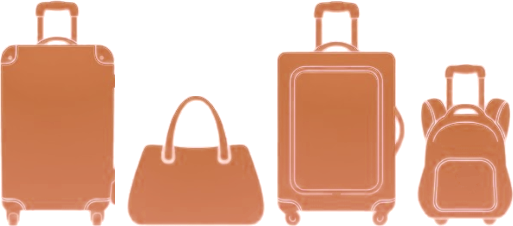
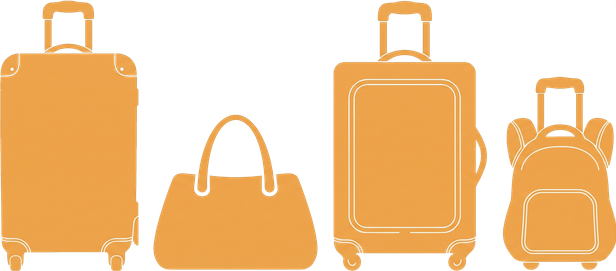
fix(divisores): sustituye las imagenes de maletas y Quienes Somos
Las dos venian con FONDO BLANCO, no negro como las versiones anteriores, y eso
cambia el metodo de recorte: el blanco tambien forma parte del dibujo. En maletas
son los contornos, las cremalleras y el interior del bolso; en Quienes Somos, el
hueco del aro, que esta cerrado por el metal y no toca el borde. Un recorte por
umbral habria agujereado los primeros y dejado tapado el segundo.

Se resuelve con relleno desde los bordes mas deteccion de huecos por erosion: lo
blanco fino (lineas del dibujo) sobrevive, lo blanco grueso (fondo exterior y
huecos cerrados) se va. Y con des-premultiplicado contra blanco, que es lo que
evita la orla clara en el borde.

Contrastado contra la version anterior de maletas, que es la referencia: 43,9% de
transparencia frente a 44,5%, y cero blanco opaco en ambas. El metodo coincide con
la intencion del asset original.

Peso: maletas de 4,9MB a 58KB, Quienes Somos de 5,9MB a 72KB.

Los aspectos nativos cambiaron y hubo que actualizar las constantes que los fijan
a mano, o el icono sale deformado. En Quienes Somos de 374/448 a 405/448, con lo
que el ancho pasa de 37 a 40px; es la tercera vez que esa constante se queda
desfasada al cambiar la imagen, asi que queda anotado en el propio codigo que hay
que tocarla siempre. En maletas la constante seguia declarando 513/226, el aspecto
de un archivo que ya no existe: el ancho redondeado salia igual (100px) y por eso
no se notaba, pero describia algo inexistente.
[…]

diff --git a/components/sobre-silvana/QSomosDivider.tsx b/components/sobre-silvana/QSomosDivider.tsx
@@ -3,19 +3,26 @@
 import { useRef } from "react";
 import Image from "next/image";
 import { useReducedMotion } from "motion/react";
-import { useFlightWithWake, DIVIDER_MARGEN_LATERAL, DIVIDER_WOBBLE_AMPLITUDE } from "@/lib/gsap/useFlightWithWake";
+import { useFlightWithWake, apoyoEnFrontera, DIVIDER_MARGEN_LATERAL, DIVIDER_WOBBLE_AMPLITUDE } from "@/lib/gsap/useFlightWithWake";
 
 // Separador de la sección Quiénes Somos (/sobre-silvana) — mismo motor de
 // animación que components/ui/AnimatedDivider.tsx
 // (lib/gsap/useFlightWithWake.ts), con el medallón
-// (public/images/q-somos-divider-v2.png) en vez del avión. Fuente: imagen real
-// del usuario, fondo negro sólido removido (alpha real) — a pedido explícito
-// del usuario esta vez se mantiene el color de cobre/tierra tal cual salió
-// de la foto, sin recolorear al dorado del resto de los separadores.
+// (public/images/q-somos-divider-v3.png) en vez del avión. Fuente: imagen real
+// del usuario (aldaba_texto.png), fondo BLANCO removido con alfa real — ojo, las
+// versiones anteriores venían sobre negro y el método es distinto: acá el blanco
+// también aparece DENTRO del hueco del aro, así que se recorta por relleno desde
+// los bordes más detección de huecos, no por umbral.
+//
+// Se mantiene el color dorado tal cual salió de la foto, sin recolorear al ámbar
+// del theme — mismo criterio que la brújula de Ciudades.
 // `gira: false`: se traslada sin rotar, mantiene su orientación fija.
 //
 const ICON_HEIGHT = 44;
-const ICON_WIDTH = Math.round((ICON_HEIGHT * 519) / 512); // aspecto nativo de q-somos-divider-v2.png
+// Aspecto nativo de q-somos-divider-v3.png. Esta constante hay que actualizarla
+// SIEMPRE que se sustituya el archivo, o el ícono sale deformado: ya pasó dos
+// veces (519/512 → 374/448 → 405/448).
+const ICON_WIDTH = Math.round((ICON_HEIGHT * 405) / 448);
 // Alto mínimo del contenedor sin recortar el ícono en los extremos del wobble
 // vertical (pedido explícito: la sección no debe dejar espacio sobrante).
 const CONTAINER_HEIGHT = ICON_HEIGHT + 2 * DIVIDER_WOBBLE_AMPLITUDE;
@@ -41,7 +48,12 @@ export function QSomosDivider({ direction = "ltr" }: QSomosDividerProps) {
   });
 
   return (
-    <div aria-hidden="true" style={{ paddingLeft: DIVIDER_MARGEN_LATERAL, paddingRight: DIVIDER_MARGEN_LATERAL }}>
+    <div
+      aria-hidden="true"
+      // apoyoEnFrontera: sube el divisor media caja para que la estela quede
+      // clavada sobre la frontera hero/cuerpo. Ver lib/gsap/useFlightWithWake.ts.
+      style={{ ...apoyoEnFrontera(ICON_HEIGHT), paddingLeft: DIVIDER_MARGEN_LATERAL, paddingRight: DIVIDER_MARGEN_LATERAL }}
+    >
       <style>{`
         .qsd-estela {
           background-image: repeating-linear-gradient(to right, var(--dz-accent) 0 3px, transparent 3px 8px);
@@ -56,7 +68,7 @@ export function QSomosDivider({ direction = "ltr" }: QSomosDividerProps) {
       >
         {prefersReducedMotion ? (
           <div className="absolute top-1/2 left-1/2" style={{ transform: "translate(-50%, -50%)" }}>
-            <Image src="/images/q-somos-divider-v2.png" alt="" width={ICON_WIDTH} height={ICON_HEIGHT} />
+            <Image src="/images/q-somos-divider-v3.png" alt="" width={ICON_WIDTH} height={ICON_HEIGHT} />
           </div>
         ) : (
           <>
@@ -67,7 +79,7 @@ export function QSomosDivider({ direction = "ltr" }: QSomosDividerProps) {
               style={{ left: 0, top: "calc(50% - 1.133px)", height: "2.266px", width: 0 }}
             />
             <div ref={iconRef} className="absolute" style={{ left: 0, top: `calc(50% - ${ICON_HEIGHT / 2}px)` }}>
-              <Image src="/images/q-somos-divider-v2.png" alt="" width={ICON_WIDTH} height={ICON_HEIGHT} />
+              <Image src="/images/q-somos-divider-v3.png" alt="" width={ICON_WIDTH} height={ICON_HEIGHT} />
             </div>
           </>
         )}

diff --git a/components/ui/MaletasDivider.tsx b/components/ui/MaletasDivider.tsx
@@ -25,7 +25,11 @@ import { useFlightWithWake, DIVIDER_MARGEN_LATERAL, DIVIDER_WOBBLE_AMPLITUDE } f
 // contra los otros divisores cae del 42% al ~18%.
 
 const ICON_HEIGHT = 44;
-const ICON_WIDTH = Math.round((ICON_HEIGHT * 513) / 226); // aspecto nativo de maletas-divider-v6.png
+// Aspecto nativo de maletas-divider-v6.png. Era 513/226 con la imagen anterior;
+// la sustitución de 2026-08-03 dejó el archivo en 616x271. El ancho redondeado
+// sale igual (100px) en los dos casos, pero se actualiza para que la constante
+// siga describiendo el archivo real y no uno que ya no existe.
+const ICON_WIDTH = Math.round((ICON_HEIGHT * 616) / 271);
 // Alto mínimo del contenedor sin recortar el ícono en los extremos del wobble
 // vertical (pedido explícito: la sección no debe dejar espacio sobrante).
 const CONTAINER_HEIGHT = ICON_HEIGHT + 2 * DIVIDER_WOBBLE_AMPLITUDE;

diff --git a/components/ui/FondoAnimado.tsx b/components/ui/FondoAnimado.tsx
@@ -52,7 +52,7 @@ const ICONOS = {
   },
   brujula: { src: "/images/brujula-divider-v3.png", alto: 46, ratio: 510 / 512, rota: false, rotBase: 0 },
   gente: { src: "/images/gente-divider-v2.png", alto: 44, ratio: 633 / 512, rota: false, rotBase: 0 },
-  qsomos: { src: "/images/q-somos-divider-v2.png", alto: 44, ratio: 519 / 512, rota: false, rotBase: 0 },
+  qsomos: { src: "/images/q-somos-divider-v3.png", alto: 44, ratio: 405 / 448, rota: false, rotBase: 0 },
   maletas: { src: "/images/maletas-divider-v6.png", alto: 44, ratio: 513 / 226, rota: false, rotBase: 0 },
 } as const;
 
